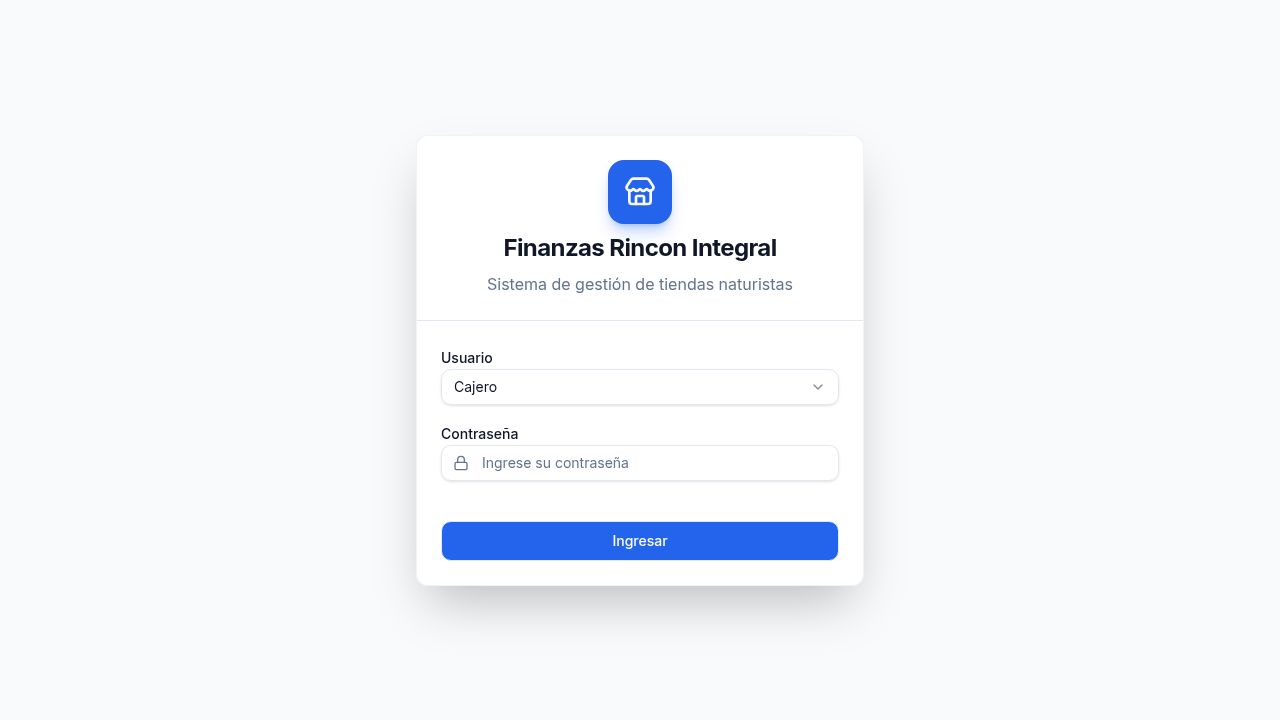
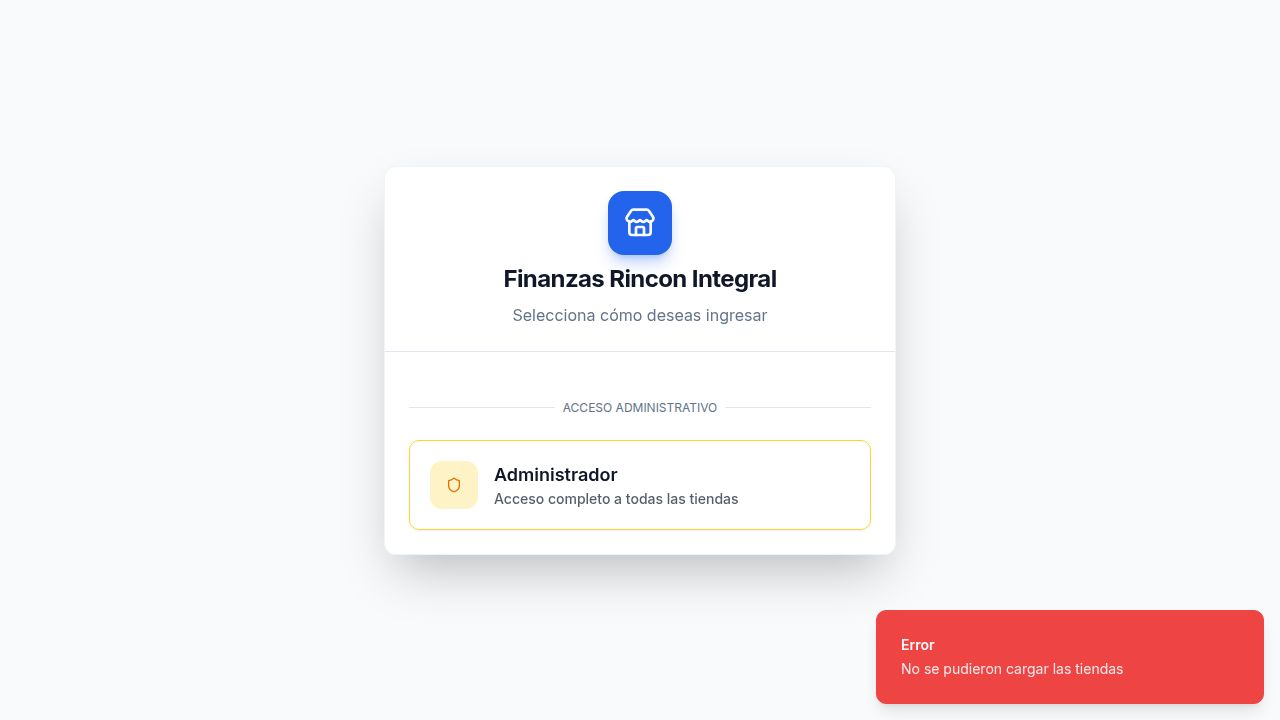
Improve access control and security for user roles and stores
Refactor authentication and authorization logic to implement granular store access control for seller roles and validate environment variables for sensitive credentials.

Replit-Commit-Author: Agent
Replit-Commit-Session-Id: 0e4a170a-07be-45ae-835b-be3b602b8d46
Replit-Commit-Checkpoint-Type: full_checkpoint
Replit-Commit-Event-Id: 07563f43-0ae4-4d76-83dc-18de4b916a75
Replit-Commit-Screenshot-Url: https://storage.googleapis.com/screenshot-production-us-central1/6561deb1-86ed-48b7-bd8f-e4bf0455dbce/0e4a170a-07be-45ae-835b-be3b602b8d46/gBqsOnJ
Replit-Helium-Checkpoint-Created: true

diff --git a/client/src/lib/authStore.ts b/client/src/lib/authStore.ts
@@ -83,8 +83,19 @@ export const useAuthStore = create<AuthState>()(
           set({ stores });
           
           const { currentStore } = get();
-          if (!currentStore && stores.length > 0) {
-            set({ currentStore: stores[0] });
+          
+          if (user.store_id) {
+            const userStore = stores.find(s => s.id === user.store_id);
+            if (userStore) {
+              set({ currentStore: userStore });
+            }
+          } else if (user.role === 'admin') {
+            if (currentStore) {
+              const validStore = stores.find(s => s.id === currentStore.id);
+              if (!validStore) {
+                set({ currentStore: null });
+              }
+            }
           }
           
           return true;

diff --git a/server/index.ts b/server/index.ts
@@ -7,9 +7,12 @@ import { spawn } from "child_process";
 const app = express();
 const httpServer = createServer(app);
 
-const backendProcess = spawn("python", ["-m", "uvicorn", "backend.main:app", "--host", "0.0.0.0", "--port", "8000"], {
+const backendEnv = Object.assign({}, process.env, { PYTHONDONTWRITEBYTECODE: "1" });
+console.log("DEBUG: 20J_SELLER_PASSWORD in backendEnv:", backendEnv["20J_SELLER_PASSWORD"]?.length || 0);
+const backendProcess = spawn("python", ["-B", "-m", "uvicorn", "backend.main:app", "--host", "0.0.0.0", "--port", "8000"], {
   stdio: ["inherit", "inherit", "inherit"],
-  detached: false
+  detached: false,
+  env: backendEnv
 });
 
 backendProcess.on("error", (err) => {

diff --git a/backend/api/routes.py b/backend/api/routes.py
@@ -38,7 +38,8 @@ from backend.api.schemas import (
 from backend.services.backup_service import create_backup, get_latest_backup, get_all_backups
 from backend.services.auth import (
     get_password_hash, verify_password, create_access_token,
-    get_current_user, require_admin, require_seller_or_admin, require_viewer_or_above
+    get_current_user, require_admin, require_seller_or_admin, require_viewer_or_above,
+    get_effective_store_id, validate_store_access
 )
 from backend.services.export import (
     export_to_excel, export_to_pdf,
@@ -275,6 +276,11 @@ def get_product_movements(product_id: int, db: Session = Depends(get_db)):
 
 @router.post("/sales", response_model=SaleResponse)
 def create_sale(sale_data: SaleCreate, db: Session = Depends(get_db), current_user: User = Depends(require_seller_or_admin)):
+    effective_store_id = get_effective_store_id(current_user, sale_data.store_id)
+    if effective_store_id:
+        validate_store_access(current_user, effective_store_id)
+        sale_data.store_id = effective_store_id
+    
     today = datetime.now()
     opening = db.query(CashOpening).filter(
         CashOpening.store_id == sale_data.store_id,
@@ -472,6 +478,8 @@ def create_return(return_data: ReturnCreate, db: Session = Depends(get_db), curr
     sale = db.query(Sale).filter(Sale.id == return_data.sale_id, Sale.deleted_at == None).first()
     if not sale:
         raise HTTPException(status_code=404, detail="Venta no encontrada o eliminada")
+    
+    validate_store_access(current_user, sale.store_id)
     
     try:
         return_record = Return(
@@ -736,6 +744,11 @@ def get_product_transfers(
 
 @router.post("/expenses", response_model=ExpenseResponse)
 def create_expense(expense_data: ExpenseCreate, db: Session = Depends(get_db), current_user: User = Depends(require_seller_or_admin)):
+    effective_store_id = get_effective_store_id(current_user, expense_data.store_id)
+    if effective_store_id:
+        validate_store_access(current_user, effective_store_id)
+        expense_data.store_id = effective_store_id
+    
     register = db.query(CashRegister).filter(CashRegister.id == expense_data.cash_register_id).with_for_update().first()
     if not register:
         raise HTTPException(status_code=404, detail="Caja no encontrada")
@@ -878,6 +891,11 @@ def create_cash_opening(
     db: Session = Depends(get_db),
     current_user: User = Depends(require_seller_or_admin)
 ):
+    effective_store_id = get_effective_store_id(current_user, opening_data.store_id)
+    if effective_store_id:
+        validate_store_access(current_user, effective_store_id)
+        opening_data.store_id = effective_store_id
+    
     today = datetime.now().date()
     existing = db.query(CashOpening).filter(
         CashOpening.store_id == opening_data.store_id,

diff --git a/backend/services/auth.py b/backend/services/auth.py
@@ -87,3 +87,33 @@ def require_seller_or_admin(current_user: User = Depends(get_current_user)) -> U
 def require_viewer_or_above(current_user: User = Depends(get_current_user)) -> User:
     """Cualquier usuario autenticado (ADMIN, SELLER, VIEWER) - solo lectura para VIEWER"""
     return current_user
+
+def get_effective_store_id(current_user: User, requested_store_id: int = None) -> int:
+    """
+    Obtiene el store_id efectivo para un usuario.
+    - Para sellers: siempre usa su store_id asignado (ignora requested_store_id)
+    - Para admins: usa requested_store_id si se proporciona, de lo contrario None
+    """
+    if current_user.role == "seller":
+        if current_user.store_id is None:
+            raise HTTPException(
+                status_code=status.HTTP_403_FORBIDDEN,
+                detail="El vendedor no tiene tienda asignada"
+            )
+        return current_user.store_id
+    return requested_store_id
+
+def validate_store_access(current_user: User, store_id: int) -> bool:
+    """
+    Valida que el usuario tenga acceso a la tienda especificada.
+    - Admins: acceso a todas las tiendas
+    - Sellers: solo a su tienda asignada
+    """
+    if current_user.role == "admin":
+        return True
+    if current_user.role == "seller" and current_user.store_id == store_id:
+        return True
+    raise HTTPException(
+        status_code=status.HTTP_403_FORBIDDEN,
+        detail="No tienes acceso a esta tienda"
+    )

diff --git a/backend/services/config.py b/backend/services/config.py
@@ -42,6 +42,24 @@ def validate_environment():
     if admin_pwd and admin_pwd in ["CHANGE_ME_IN_PRODUCTION", "admin", "password", "123456"]:
         logger.warning("ADMIN_DEFAULT_PASSWORD tiene un valor inseguro. Cambie en producción.")
     
+    blocked_passwords = ["CHANGE_ME_IN_PRODUCTION", ""]
+    weak_passwords = ["1234", "password", "123456", "admin"]
+    
+    tunal_pwd = os.environ.get("TUNAL_SELLER_PASSWORD", "")
+    if tunal_pwd in blocked_passwords:
+        logger.critical("TUNAL_SELLER_PASSWORD no está configurada o tiene valor por defecto.")
+        sys.exit(1)
+    if tunal_pwd in weak_passwords:
+        logger.warning("TUNAL_SELLER_PASSWORD tiene un valor débil. Considere cambiarlo.")
+    
+    seller_20j_pwd = os.environ.get("20J_SELLER_PASSWORD", "")
+    logger.info(f"DEBUG: 20J_SELLER_PASSWORD length={len(seller_20j_pwd)}, blocked={blocked_passwords}, in_blocked={seller_20j_pwd in blocked_passwords}")
+    if seller_20j_pwd in blocked_passwords:
+        logger.critical("20J_SELLER_PASSWORD no está configurada o tiene valor por defecto.")
+        sys.exit(1)
+    if seller_20j_pwd in weak_passwords:
+        logger.warning("20J_SELLER_PASSWORD tiene un valor débil. Considere cambiarlo.")
+    
     logger.info("Validación de configuración completada")
 
 def get_config(key: str, default: str = None) -> str:
